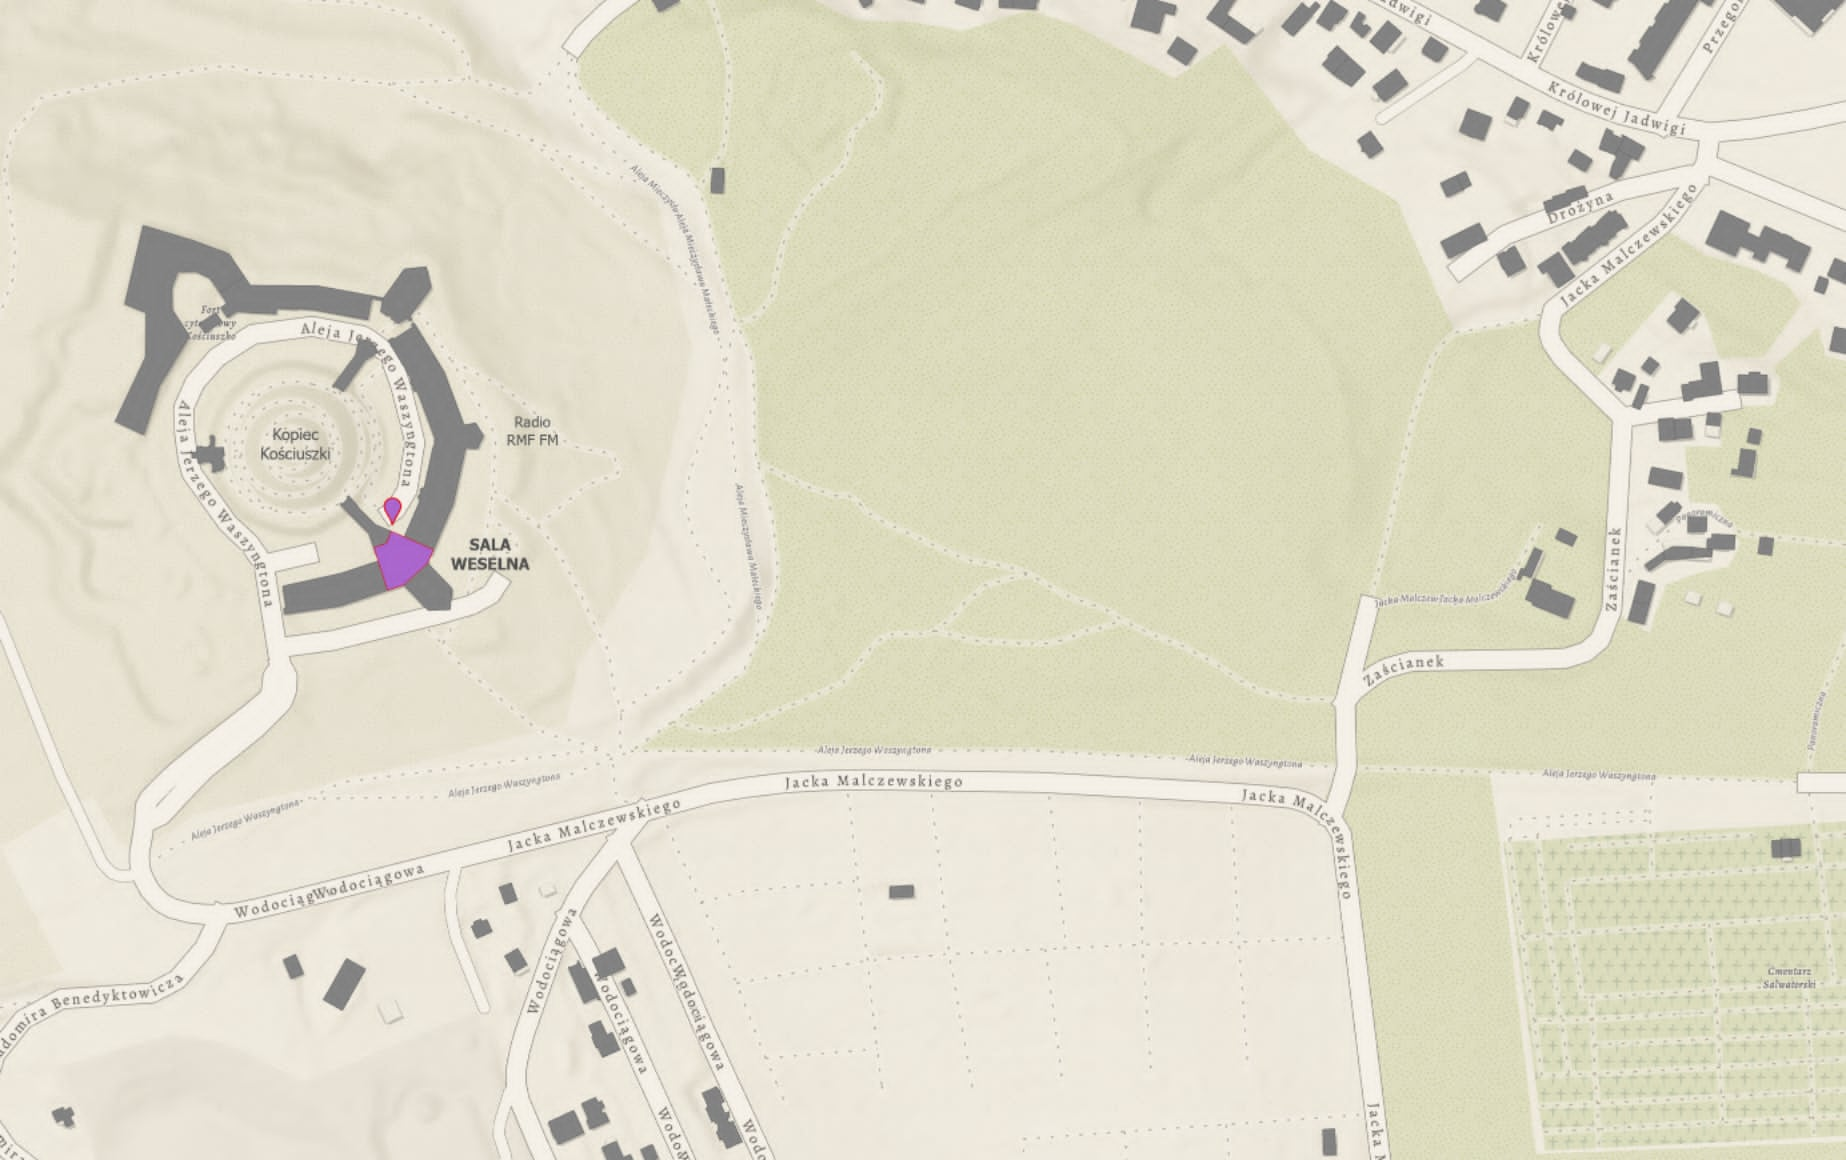
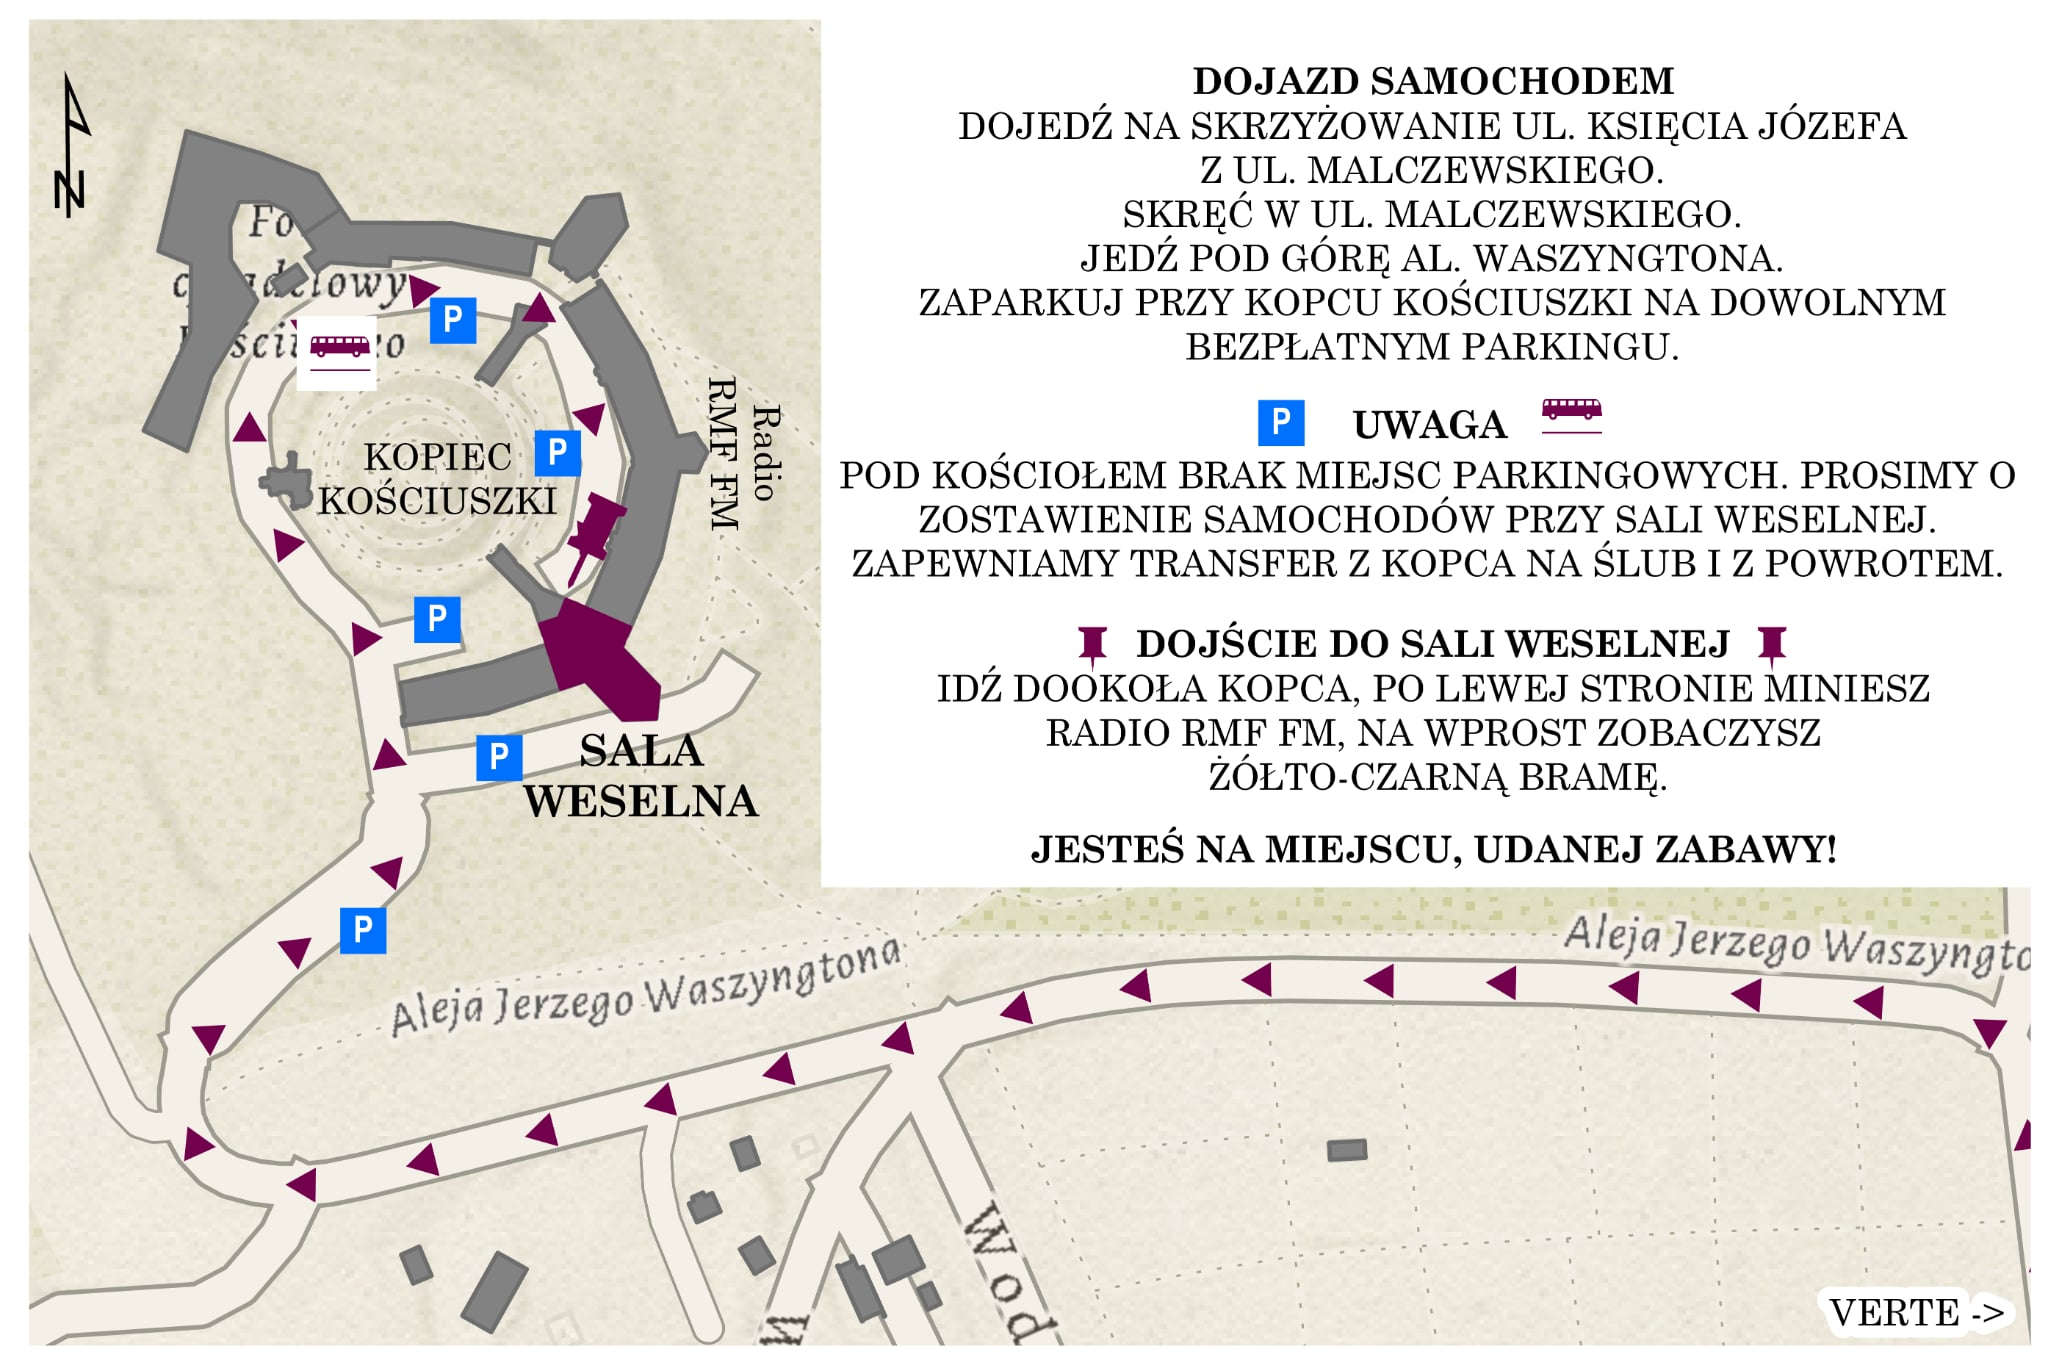
shuttlebus

diff --git a/site/src/components/directions.tsx b/site/src/components/directions.tsx
@@ -1,6 +1,6 @@
 "use client";
 
-import { TriangleAlert } from "lucide-react";
+import { Bus, TriangleAlert } from "lucide-react";
 import Image from "next/image";
 import { useScrollReveal, revealStyle } from "@/hooks/use-scroll-reveal";
 
@@ -15,101 +15,25 @@ export function Directions() {
           Jak dojechać
         </h2>
 
-        {/* Church */}
-        <div className="mt-16 space-y-6" ref={churchRef}>
-          <h3
-            className="font-serif text-2xl font-light text-wedding-800"
-            style={revealStyle(churchVisible, 0)}
-          >
-            Kościół — Ceremonia
-          </h3>
-          <p
-            className="text-sm text-muted-foreground"
-            style={revealStyle(churchVisible, 100)}
-          >
-            Kościół św. Augustyna i św. Jana Chrzciciela na Zwierzyńcu
-            <br />
-            ul. Tadeusza Kościuszki 88, 30-114 Kraków
-          </p>
-
-          <div
-            className="text-sm text-wedding-700 leading-relaxed space-y-3"
-            style={revealStyle(churchVisible, 200)}
-          >
-            <p>
-              Kościół znajduje się na Zwierzyńcu, tuż przy moście Dębnickim, nad
-              samą Wisłą. Jadąc od strony centrum — kierujcie się aleją
-              Krasińskiego w stronę Salwatora. Po minięciu ronda przy Poczcie
-              Głównej skręćcie w ulicę Kościuszki. Kościół znajduje się po prawej
-              stronie, tuż za Klasztorem Sióstr Norbertanek.
-            </p>
-            <p>
-              <strong>Parking:</strong> Parking dostępny jest wzdłuż ulicy
-              Kościuszki (miejsca równoległe) oraz na małym parkingu przy
-              klasztorze. Można też zaparkować na ulicy św. Bronisławy lub przy
-              Salwatorze.
-            </p>
-          </div>
-
-          <div
-            className="rounded-xl overflow-hidden border border-wedding-200"
-            style={revealStyle(churchVisible, 300, { scale: true })}
-          >
-            <Image
-              src="/mapa-kosciol.png"
-              alt="Mapa dojazdu do kościoła"
-              width={1200}
-              height={600}
-              className="w-full h-auto"
-            />
-          </div>
-
-          <div
-            className="rounded-xl overflow-hidden border border-wedding-200"
-            style={revealStyle(churchVisible, 400, { scale: true })}
-          >
-            <iframe
-              src="https://www.google.com/maps/embed?pb=!1m18!1m12!1m3!1d1280.5!2d19.9141919!3d50.0521627!2m3!1f0!2f0!3f0!3m2!1i1024!2i768!4f13.1!3m3!1m2!1s0x47165b762a8a3e99%3A0xd6e453b9ea19d47f!2sParish%20of%20the%20Holy%20Saviour!5e0!3m2!1spl!2spl!4v1700000000000!5m2!1spl!2spl"
-              width="100%"
-              height="350"
-              style={{ border: 0 }}
-              allowFullScreen
-              loading="lazy"
-              referrerPolicy="no-referrer-when-downgrade"
-              title="Mapa kościoła"
-            />
-          </div>
-        </div>
-
-        {/* Divider */}
-        <div className="my-16 border-t border-wedding-200" />
-
         {/* Venue */}
-        <div className="space-y-6" ref={venueRef}>
+        <div className="mt-16 space-y-6" ref={venueRef}>
           <h3
             className="font-serif text-2xl font-light text-wedding-800"
             style={revealStyle(venueVisible, 0)}
           >
-            Sala weselna — Wesele
+            Sala weselna — tu parkujemy
           </h3>
-          <p
-            className="text-sm text-muted-foreground"
-            style={revealStyle(venueVisible, 100)}
-          >
-            Sala weselna przy Kopcu Kościuszki
-            <br />
-            al. Jerzego Waszyngtona 1, 30-204 Kraków
-          </p>
+
 
           <div
             className="text-sm text-wedding-700 leading-relaxed space-y-3"
             style={revealStyle(venueVisible, 200)}
           >
             <p>
-              Sala weselna mieści się u podnóża Kopca Kościuszki. Jadąc od strony
-              centrum Krakowa, kierujcie się aleją Waszyngtona (od strony
-              Salwatora / Zwierzyńca). Aleja prowadzi serpentynami pod górę w
-              kierunku kopca.
+              Sala weselna mieści się u podnóża Kopca Kościuszki, gdzie znajduje
+              się wygodny parking dla gości. To właśnie tutaj zostawiamy
+              samochody — zarówno na czas ceremonii, jak i wesela. Dojazd i
+              miejsce parkingowe pokazuje poniższa mapa.
             </p>
 
             {/* Warning */}
@@ -130,12 +54,21 @@ export function Directions() {
               </div>
             </div>
 
-            <p>
-              <strong>Parking:</strong> Parking dla gości dostępny jest
-              bezpośrednio przy sali weselnej. Wjazd na parking znajduje się zaraz
-              po skręceniu w lewo na rozwidleniu. Dodatkowe miejsca parkingowe
-              są dostępne niżej, przy alei Waszyngtona.
-            </p>
+            {/* Shuttle highlight */}
+            <div className="flex gap-3 p-4 rounded-lg bg-amber-50 border border-amber-200 text-amber-900">
+              <Bus className="size-5 shrink-0 mt-0.5 text-amber-600" />
+              <div>
+                <p className="font-medium">
+                  Autobus dowiezie Was na ceremonię i z powrotem
+                </p>
+                <p className="mt-1">
+                  Przy kościele nie ma parkingu, dlatego samochody zostawiamy
+                  tutaj, przy sali weselnej. Stąd <strong>autobus zabierze
+                  gości do kościoła na ceremonię</strong>, a po niej{" "}
+                  <strong>przywiezie z powrotem</strong> na salę weselną.
+                </p>
+              </div>
+            </div>
           </div>
 
           <div
@@ -144,9 +77,9 @@ export function Directions() {
           >
             <Image
               src="/mapa-kopiec.png"
-              alt="Mapa dojazdu do sali weselnej"
-              width={1200}
-              height={600}
+              alt="Mapa dojazdu do sali weselnej i parkingu"
+              width={2048}
+              height={1371}
               className="w-full h-auto"
             />
           </div>
@@ -164,6 +97,50 @@ export function Directions() {
               loading="lazy"
               referrerPolicy="no-referrer-when-downgrade"
               title="Mapa sali weselnej"
+            />
+          </div>
+        </div>
+
+        {/* Divider */}
+        <div className="my-16 border-t border-wedding-200" />
+
+        {/* Church */}
+        <div className="space-y-6" ref={churchRef}>
+          <h3
+            className="font-serif text-2xl font-light text-wedding-800"
+            style={revealStyle(churchVisible, 0)}
+          >
+            Kościół — Ceremonia
+          </h3>
+
+          <div
+            className="text-sm text-wedding-700 leading-relaxed space-y-3"
+            style={revealStyle(churchVisible, 200)}
+          >
+            <p>
+              Kościół znajduje się na Zwierzyńcu, tuż przy moście Dębnickim, nad
+              samą Wisłą. Kościół posiada dwa wejścia, jedno od ulicy Tadeusza Kościuszki oraz drugie wejscie od dziedzińca, do którego wejscie znajduje się od strony rzeki Rudawy.
+            </p>
+            <p>
+              <strong>Parking:</strong> Przy kościele nie ma dedykowanego
+              parkingu — dlatego dojazd zapewnia autobus z parkingu przy sali
+              weselnej (szczegóły powyżej).
+            </p>
+          </div>
+
+          <div
+            className="rounded-xl overflow-hidden border border-wedding-200"
+            style={revealStyle(churchVisible, 300, { scale: true })}
+          >
+            <iframe
+              src="https://www.google.com/maps/embed?pb=!1m18!1m12!1m3!1d1280.5!2d19.9141919!3d50.0521627!2m3!1f0!2f0!3f0!3m2!1i1024!2i768!4f13.1!3m3!1m2!1s0x47165b762a8a3e99%3A0xd6e453b9ea19d47f!2sParish%20of%20the%20Holy%20Saviour!5e0!3m2!1spl!2spl!4v1700000000000!5m2!1spl!2spl"
+              width="100%"
+              height="350"
+              style={{ border: 0 }}
+              allowFullScreen
+              loading="lazy"
+              referrerPolicy="no-referrer-when-downgrade"
+              title="Mapa kościoła"
             />
           </div>
         </div>

diff --git a/site/src/components/key-info.tsx b/site/src/components/key-info.tsx
@@ -1,6 +1,6 @@
 "use client";
 
-import { Church, PartyPopper } from "lucide-react";
+import { Church, PartyPopper, Bus } from "lucide-react";
 import { useScrollReveal, revealStyle } from "@/hooks/use-scroll-reveal";
 
 export function KeyInfo() {
@@ -59,7 +59,7 @@ export function KeyInfo() {
             <p className="text-sm text-muted-foreground">
               al. Jerzego Waszyngtona 1, 30-204 Kraków
             </p>
-            <p className="font-serif text-xl text-wedding-800">16:00</p>
+            <p className="font-serif text-xl text-wedding-800">~ 16:00</p>
             <a
               href="https://maps.app.goo.gl/5XtRXpFQew7G3wWR9?g_st=ac"
               target="_blank"
@@ -68,6 +68,25 @@ export function KeyInfo() {
             >
               Pokaż na mapie
             </a>
+          </div>
+        </div>
+
+        {/* Shuttle callout */}
+        <div
+          className="mt-10 flex gap-4 p-6 rounded-xl bg-amber-50 border border-amber-200 text-amber-900"
+          style={revealStyle(visible, 450, { scale: true })}
+        >
+          <Bus className="size-7 shrink-0 mt-0.5 text-amber-600 stroke-[1.2]" />
+          <div>
+            <h3 className="font-serif text-lg font-light text-amber-900">
+              Parkujemy przy sali, na ceremonię dowiezie autobus
+            </h3>
+            <p className="mt-2 text-sm leading-relaxed">
+              Przy kościele <strong>nie ma parkingu</strong>. Samochody
+              zostawiamy na parkingu przy sali weselnej (Kopiec Kościuszki).
+              Stamtąd <strong>autobus dowiezie gości na ceremonię w kościele
+              i z powrotem</strong> na salę weselną.
+            </p>
           </div>
         </div>
       </div>

diff --git a/site/src/components/schedule.tsx b/site/src/components/schedule.tsx
@@ -4,24 +4,33 @@ import { useScrollReveal, revealStyle } from "@/hooks/use-scroll-reveal";
 
 const EVENTS = [
   {
-    time: "15:00",
+    time: "13:30",
+    title: "Autobus spod Kopca",
+    description: "Autobus zabiera gości spod sali weselnej do kościoła",
+  },
+  {
+    time: "14:00",
     title: "Ceremonia",
     description: "Ślub w Kościele św. Augustyna i św. Jana Chrzciciela na Zwierzyńcu",
   },
   {
-    time: "16:30",
+    time: "~16:00",
     title: "Przyjazd na salę",
     description: "Powitanie gości w sali weselnej przy Kopcu Kościuszki",
   },
   {
-    time: "17:00",
+    time: "~16:30",
     title: "Obiad",
     description: "Uroczysta biesiada weselna",
   },
   {
-    time: "18:00",
+    time: "~17:15",
     title: "Wyjście na Kopiec",
-    description: "Wyjście na Kopiec Kościuszki dla chętnych",
+    description: "Jeśli pogoda pozwoli, wyjście na szczyt Kopca Kościuszki dla chętnych",
+  },
+  {
+    title: "Zabawa",
+    description: "Ślub - nie jest końcem świata, Choć kawaler znika z lata. Za to mąż zyskuje wiele – Żonę, szczęście i wesele!",
   },
 ];
 

diff --git a/site/src/components/contact.tsx b/site/src/components/contact.tsx
@@ -8,9 +8,9 @@ const CONTACTS = [
   { role: "Pan Młody", name: "Kamil Kozioł", phone: "[phone redacted]" },
   { role: "Mama Panny Młodej", name: "Barbara Golemo", phone: "[phone redacted]" },
   { role: "Mama Pana Młodego", name: "Justyna Kozioł", phone: "[phone redacted]" },
-  { role: "Tata Panny Młodej", name: "Paweł Golemo", phone: "[phone redacted]" },
+  { role: "Tata Panny Młodej", name: "Paweł Golemo", phone: "[phone redacted]" },
   { role: "Tata Pana Młodego", name: "Krystian Kozioł", phone: "[phone redacted]" },
-  { role: "Świadkowa", name: "Kamila Golemo", phone: "[phone redacted]" },
+  { role: "Świadkowa", name: "Kamila Golemo", phone: "[phone redacted]" },
   { role: "Świadek", name: "Ludwik Bukowski", phone: "[phone redacted]" },
   { role: "Brat Pana Młodego", name: "Kacper Kozioł", phone: "[phone redacted]" },
 ];
@@ -61,7 +61,7 @@ export function Contact() {
           style={revealStyle(visible, 700)}
         >
           <p className="text-sm text-muted-foreground leading-relaxed">
-            Przed weselem będziemy więcej niż szczęśliwi, mogąc odpowiedzieć na wszystkie Wasze pytania — dzwońcie i piszcie śmiało! W dniu wesela prosimy jednak kierować pytania do bliskich wymienionych powyżej.
+            Przed weselem z chęcią odpowiemy na wszystkie Wasze pytania — dzwońcie i piszcie śmiało! W dniu i w wigilię wesela prosimy jednak kierować pytania do bliskich wymienionych powyżej.
           </p>
           <p className="text-sm text-wedding-700 leading-relaxed">
             Jeśli wśród Waszych bliskich są osoby, które nie korzystają z internetu — prosimy, przekażcie im najważniejsze informacje z tej strony osobiście lub telefonicznie. Będziemy wdzięczni!

diff --git a/site/src/components/faq.tsx b/site/src/components/faq.tsx
@@ -6,17 +6,17 @@ const FAQ_ITEMS = [
     {
     question: "Kiedy składamy życzenia?",
     answer:
-      "Życzenia składamy po ceremonii zaślubin na dziedzińcu Kościoła. Po złożeniu życzeń zachęcamy do sprawnego transportu na salę weselną.",
+      "Życzenia składamy po ceremonii zaślubin na dziedzińcu Kościoła. Po złożeniu życzeń busy zabiorą nas spowrotem na salę weselną.",
   },
   {
     question: "Chcę wyjść na kopiec, co muszę wiedzieć?",
     answer:
-      "Planujemy wspólne wyjście na szczyt Kopca Kościuszki dla chętnych. Wejście jest krótkie (5-10 minut od sali) po bruku, końcowy fragment jest dość stromy i prowadzi po utwardzonej, miejscami nierównej nawierzchni. Polecamy wygodne obuwie — dla Pań w szpilkach wejście może być mniej komfortowe, dlatego warto rozważyć niższy obcas, lub zabranie dodatkowej pary butów. Nie są potrzebne buty trekkingowe ani sportowe. Starsze osoby dadzą radę spokojnym tempem.",
+      "Jeśli pogoda pozwoli chcemy wspólnie wyjść na szczyt Kopca Kościuszki. Atrakcja dla chętnych. Wejście jest krótkie (5-10 minut od sali) po bruku, końcowy fragment jest dość stromy i prowadzi po utwardzonej, miejscami nierównej nawierzchni. Polecamy wygodne obuwie, warto rozważyć niższy obcas, lub zabranie dodatkowej pary butów. Nie są potrzebne buty trekkingowe ani sportowe. Starsze osoby dadzą radę spokojnym tempem.",
   },
   {
     question: "Czy jest parking?",
     answer:
-      "Tak! Zarówno przy kościele, jak i przy sali weselnej dostępne są miejsca parkingowe. Szczegóły znajdziecie w sekcji Jak dojechać.",
+      "Przy sali weselnej dostępne są bezpłatne miejsca parkingowe (zarówno przy drodze dojazdowej jak i na terenie kopca). Z miejsca zaznaczonego na mapce kopca odjeżdżają autobusy które zabiorą Was do kościoła i spowrotem na salę weselną. Niestety przy kościele nie ma dedykowanego parkingu, więc jęśli decydujecie się jechać do kościoła samodzielnie, to trzeba parkować na publicznych płatnych parkingach.",
   },
   {
     question: "Czy będzie nocleg?",

diff --git a/docs/requirements.md b/docs/requirements.md
@@ -57,7 +57,7 @@ Two cards side by side:
 ### Reception
 - **Venue:** Sala weselna przy Kopcu Kościuszki
 - **Address:** al. Jerzego Waszyngtona 1, 30-204 Kraków
-- **Time:** 16:00
+- **Time:** ~ 16:00
 - **Google Maps link:** https://maps.app.goo.gl/58YDzKN9GNxoGxis7
 - Button: "Pokaż na mapie"
 